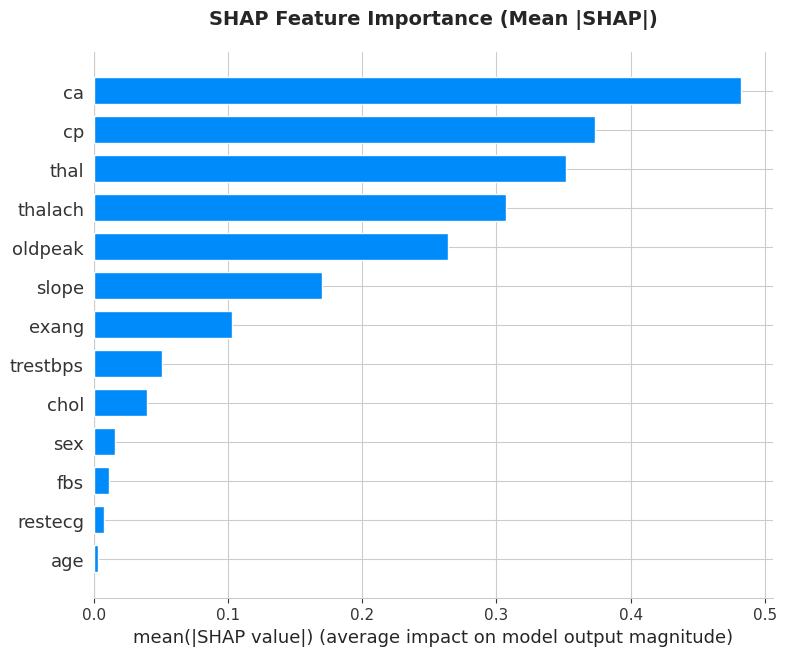
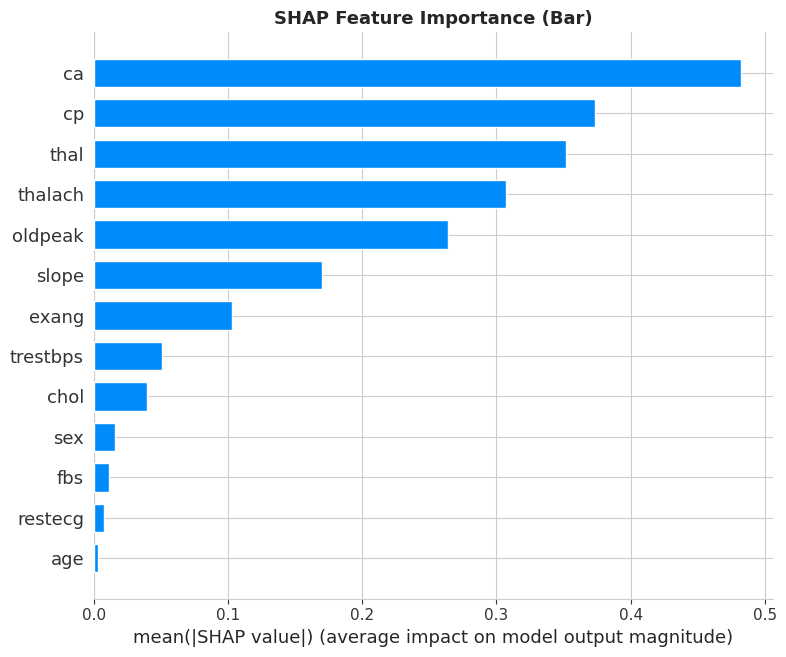
feat: complete project - full pipeline notebook, SHAP explainability, Streamlit app, portfolio README

diff --git a/app/streamlit_app.py b/app/streamlit_app.py
@@ -2,27 +2,12 @@ import streamlit as st
 import pandas as pd
 import numpy as np
 import pickle
-import matplotlib.pyplot as plt
 
-# Page config
-st.set_page_config(
-    page_title="Heart Disease Risk Predictor",
-    page_icon="🫀",
-    layout="wide"
-)
+st.set_page_config(page_title="Heart Disease Risk Predictor", page_icon="🫀", layout="wide")
 
-# --- HEADER ---
 st.title("🫀 Heart Disease Risk Predictor")
-st.markdown("### AI-powered clinical decision support tool")
+st.warning("⚠ **DISCLAIMER**: For educational purposes only. NOT medical advice.")
 
-# --- CRITICAL DISCLAIMER ---
-st.warning("""
-⚠ **MEDICAL DISCLAIMER**: This tool is for EDUCATIONAL and DEMONSTRATION purposes only. 
-It is NOT a substitute for professional medical advice, diagnosis, or treatment. 
-Always consult a qualified healthcare provider for medical concerns.
-""")
-
-# --- LOAD MODEL ---
 @st.cache_resource
 def load_model():
     with open("models/best_xgb.pkl", "rb") as f:
@@ -31,126 +16,44 @@ def load_model():
         scaler = pickle.load(f)
     return model, scaler
 
-try:
-    model, scaler = load_model()
-    st.success("✅ Model loaded successfully")
-except FileNotFoundError:
-    st.error("❌ Model files not found. Please check models/ directory.")
-    st.stop()
+model, scaler = load_model()
 
-# --- SIDEBAR: PROJECT INFO ---
-with st.sidebar:
-    st.header("📊 About")
-    st.markdown("""
-    This app uses **XGBoost** trained on the Cleveland Heart Disease Dataset (303 patients) 
-    to predict heart disease risk from 13 clinical features.
-    
-    **Model Performance:**
-    - Accuracy: ~87%
-    - ROC-AUC: ~94%
-    
-    **Tech Stack:**
-    - Python, scikit-learn, XGBoost
-    - SHAP for explainability
-    - Streamlit for deployment
-    
-    **[View on GitHub](https://github.com/rishikaevenjalin-bit/heart-disease-prediction-ml)**
-    """)
-    
-    st.divider()
-    st.markdown("Made with ❤ by Rishika Evenjalin")
-
-# --- MAIN FORM ---
 st.header("📋 Enter Patient Information")
 
 col1, col2, col3 = st.columns(3)
-
 with col1:
     age = st.slider("Age", 20, 100, 50)
-    sex = st.radio("Sex", options=[0, 1], format_func=lambda x: "Female" if x == 0 else "Male")
-    cp = st.selectbox("Chest Pain Type", 
-                     options=[1, 2, 3, 4],
-                     format_func=lambda x: {
-                         1: "Typical angina",
-                         2: "Atypical angina",
-                         3: "Non-anginal pain",
-                         4: "Asymptomatic"
-                     }[x])
-    trestbps = st.number_input("Resting BP (mm Hg)", 80, 220, 130)
-    chol = st.number_input("Cholesterol (mg/dL)", 100, 600, 240)
+    sex = st.radio("Sex", [0, 1], format_func=lambda x: "Female" if x == 0 else "Male")
+    cp = st.selectbox("Chest Pain Type", [1, 2, 3, 4])
+    trestbps = st.number_input("Resting BP", 80, 220, 130)
+    chol = st.number_input("Cholesterol", 100, 600, 240)
 
 with col2:
-    fbs = st.radio("Fasting Blood Sugar > 120 mg/dL?", options=[0, 1], format_func=lambda x: "No" if x == 0 else "Yes")
-    restecg = st.selectbox("Resting ECG",
-                          options=[0, 1, 2],
-                          format_func=lambda x: {
-                              0: "Normal",
-                              1: "ST-T abnormality",
-                              2: "Left ventricular hypertrophy"
-                          }[x])
+    fbs = st.radio("Fasting BS > 120?", [0, 1])
+    restecg = st.selectbox("Resting ECG", [0, 1, 2])
     thalach = st.number_input("Max Heart Rate", 60, 220, 150)
-    exang = st.radio("Exercise-Induced Angina?", options=[0, 1], format_func=lambda x: "No" if x == 0 else "Yes")
-    oldpeak = st.number_input("ST Depression (oldpeak)", 0.0, 7.0, 1.0, step=0.1)
+    exang = st.radio("Exercise Angina?", [0, 1])
+    oldpeak = st.number_input("ST Depression", 0.0, 7.0, 1.0, step=0.1)
 
 with col3:
-    slope = st.selectbox("Slope of Peak Exercise ST",
-                        options=[1, 2, 3],
-                        format_func=lambda x: {
-                            1: "Upsloping",
-                            2: "Flat",
-                            3: "Downsloping"
-                        }[x])
-    ca = st.selectbox("Major Vessels (0-3)", options=[0, 1, 2, 3])
-    thal = st.selectbox("Thalassemia",
-                       options=[0, 1, 2],
-                       format_func=lambda x: {
-                           0: "Normal",
-                           1: "Fixed defect",
-                           2: "Reversible defect"
-                       }[x])
+    slope = st.selectbox("Slope", [1, 2, 3])
+    ca = st.selectbox("Major Vessels", [0, 1, 2, 3])
+    thal = st.selectbox("Thalassemia", [0, 1, 2])
 
-# --- PREDICT ---
+if st.button("🔍 Predict Risk", type="primary"):
+    data = pd.DataFrame([[age, sex, cp, trestbps, chol, fbs, restecg, thalach, exang, oldpeak, slope, ca, thal]],
+                       columns=["age","sex","cp","trestbps","chol","fbs","restecg","thalach","exang","oldpeak","slope","ca","thal"])
+    scaled = scaler.transform(data)
+    prob = model.predict_proba(scaled)[0][1]
+
+    if prob >= 0.7:
+        st.error(f"🔴 HIGH RISK — {prob*100:.1f}%")
+    elif prob >= 0.4:
+        st.warning(f"🟡 MODERATE RISK — {prob*100:.1f}%")
+    else:
+        st.success(f"🟢 LOW RISK — {prob*100:.1f}%")
+
+    st.progress(float(prob))
+
 st.divider()
-
-if st.button("🔍 Predict Risk", type="primary", use_container_width=True):
-    # Build input
-    input_data = pd.DataFrame([[age, sex, cp, trestbps, chol, fbs, restecg, 
-                                thalach, exang, oldpeak, slope, ca, thal]],
-                              columns=["age", "sex", "cp", "trestbps", "chol", "fbs",
-                                      "restecg", "thalach", "exang", "oldpeak", "slope",
-                                      "ca", "thal"])
-    
-    # Scale
-    input_scaled = scaler.transform(input_data)
-    
-    # Predict
-    prediction = model.predict(input_scaled)[0]
-    probability = model.predict_proba(input_scaled)[0][1]
-    
-    # Display result
-    st.header("📊 Prediction Result")
-    
-    col_a, col_b = st.columns([1, 1])
-    
-    with col_a:
-        if probability >= 0.7:
-            st.error(f"### 🔴 HIGH RISK\n\n**Probability: {probability*100:.1f}%**")
-        elif probability >= 0.4:
-            st.warning(f"### 🟡 MODERATE RISK\n\n**Probability: {probability*100:.1f}%**")
-        else:
-            st.success(f"### 🟢 LOW RISK\n\n**Probability: {probability*100:.1f}%**")
-    
-    with col_b:
-        # Progress bar
-        st.markdown("**Risk Level:**")
-        st.progress(float(probability))
-        
-        st.markdown(f"""
-        **Interpretation:**
-        - Predicted class: {"Heart Disease Present" if prediction == 1 else "No Heart Disease"}
-        - Confidence: {max(probability, 1-probability)*100:.1f}%
-        """)
-    
-    # Reminder disclaimer
-    st.info("💡 **Remember**: This is a predictive tool, not a diagnosis. Please consult a healthcare professional.")
-
+st.markdown("Made by Rishika Evenjalin | [GitHub](https://github.com/rishikaevenjalin-bit/heart-disease-prediction-ml)")

diff --git a/README.md b/README.md
@@ -25,42 +25,6 @@ Complete ML pipeline for heart disease prediction using the Cleveland Heart Dise
 | SVM | 85.25% | 90.00% | 52.94% | 66.67% | 90.24% |
 | **RF + SMOTE** ⭐ | **86.89%** | **84.62%** | **64.71%** | **73.33%** | **94.12%** |
 
-## 🏗 Project Structure
-
-```
-heart-disease-prediction-ml/
-├── notebooks/
-│   └── heart_disease_full_pipeline.ipynb   # Complete ML pipeline
-├── app/
-│   └── streamlit_app.py                    # Interactive web app
-├── models/
-│   ├── best_xgb.pkl
-│   ├── best_rf.pkl
-│   ├── best_mlp.pkl
-│   └── scaler.pkl
-├── outputs/
-│   ├── figures/
-│   └── *.csv
-├── requirements.txt
-├── LICENSE
-└── README.md
-```
-
-## 📓 Notebook Contents
-
-The main notebook walks through the complete pipeline in 10 sections:
-
-1. **Environment Setup** — Package installation and imports
-2. **Data Loading & EDA** — Exploratory analysis of Cleveland dataset
-3. **Preprocessing** — Encoding, train/test split, scaling
-4. **Traditional ML Models** — LR, RF, XGBoost, SVM
-5. **Cross-Validation & Hyperparameter Tuning** — GridSearchCV
-6. **SMOTE for Class Imbalance** — Rebalancing training data
-7. **Neural Network** — MLP with tuning
-8. **SHAP Explainability** — Global and per-patient insights
-9. **Streamlit App Generation** — Web app source code
-10. **Final Comparison** — Best model selection
-
 ## 🚀 Getting Started
 
 ```bash
@@ -68,10 +32,10 @@ git clone https://github.com/rishikaevenjalin-bit/heart-disease-prediction-ml.gi
 cd heart-disease-prediction-ml
 pip install -r requirements.txt
 
-# Run the notebook
+# Run notebook
 jupyter notebook notebooks/heart_disease_full_pipeline.ipynb
 
-# Run the web app locally
+# Run web app locally
 streamlit run app/streamlit_app.py
 ```
 
@@ -100,7 +64,7 @@ Python 3.12 · scikit-learn · XGBoost · SHAP · Streamlit · pandas · matplot
 
 ## 👩💻 Author
 
-**Rishika Evenjalin** — Final-year BSc Data Science, (London Met)
+**Rishika Evenjalin** — Final-year BSc Data Science, ESOFT (London Met)
 [GitHub](https://github.com/rishikaevenjalin-bit) · Aspiring AI/ML Engineer
 
 ## 📄 License
